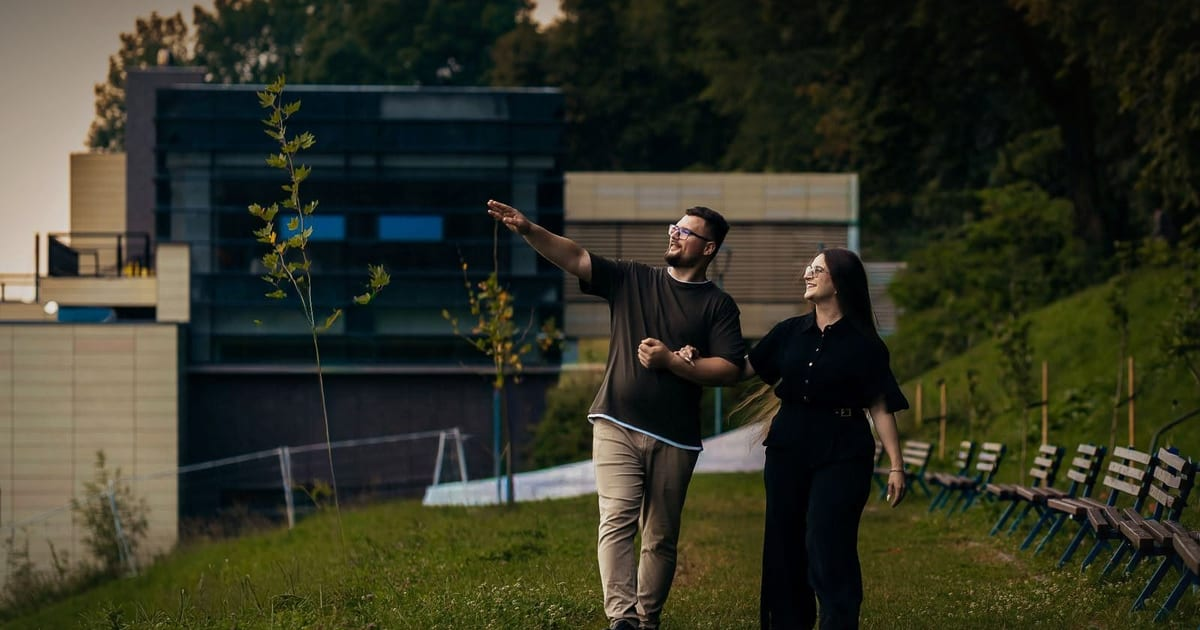
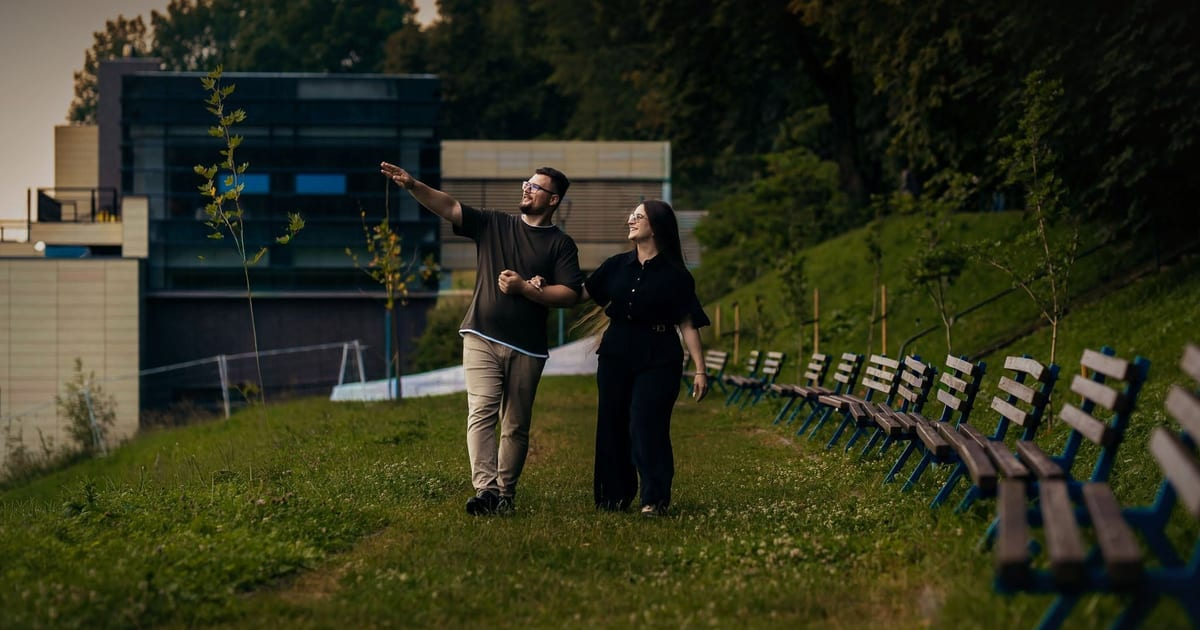
Galerie: elimină pozele duplicate și adaugă 6 poze noi de la mireasă

diff --git a/src/data/photos.ts b/src/data/photos.ts
@@ -17,10 +17,13 @@ import hero from '../assets/photos/hero.jpg';
 import intrebarea from '../assets/photos/intrebarea.jpg';
 import primulAcasa from '../assets/photos/primul-acasa.jpg';
 import galerieAlee from '../assets/photos/galerie-alee.jpg';
-import galerieImbratisare from '../assets/photos/galerie-imbratisare.jpg';
-import galerieArcadaUmbra from '../assets/photos/galerie-arcada-umbra.jpg';
-import galeriePortretSezut from '../assets/photos/galerie-portret-sezut.jpg';
 import galeriePrivire from '../assets/photos/galerie-privire.jpg';
+import galerieCivilaIedera from '../assets/photos/galerie-civila-iedera.jpg';
+import galerieGradinaAlbastru from '../assets/photos/galerie-gradina-albastru.jpg';
+import galerieMunteSelfie from '../assets/photos/galerie-munte-selfie.jpg';
+import galerieBradCraciun from '../assets/photos/galerie-brad-craciun.jpg';
+import galerieEvenimentSelfie from '../assets/photos/galerie-eveniment-selfie.jpg';
+import galerieSelfieAlb from '../assets/photos/galerie-selfie-alb.jpg';
 import heroMobile from '../assets/photos/crops/hero-mobile.jpg';
 import rsvpMobile from '../assets/photos/crops/rsvp-mobile.jpg';
 import finalMobile from '../assets/photos/crops/final-mobile.jpg';
@@ -33,10 +36,13 @@ export type PhotoKey = 'civila' | 'arcada' | 'inel' | 'intim' | 'apus' | 'portre
   | 'primulAcasa'
   | 'intrebarea'
   | 'galerieAlee'
-  | 'galerieImbratisare'
-  | 'galerieArcadaUmbra'
-  | 'galeriePortretSezut'
-  | 'galeriePrivire';
+  | 'galeriePrivire'
+  | 'galerieCivilaIedera'
+  | 'galerieGradinaAlbastru'
+  | 'galerieMunteSelfie'
+  | 'galerieBradCraciun'
+  | 'galerieEvenimentSelfie'
+  | 'galerieSelfieAlb';
 
 export interface Photo {
   src: ImageMetadata;
@@ -56,10 +62,13 @@ export const photos: Record<PhotoKey, Photo> = {
   intrebarea: { src: intrebarea, alt: 'Două mâini împreunate, cu inelul de logodnă, în fața unui brad de Crăciun plin de luminițe colorate', lqip: lqip.intrebarea },
   primulAcasa: { src: primulAcasa, alt: 'Dragoș și Diana, zâmbind într-un selfie, într-un parc cu iarbă verde și flori albe', lqip: lqip.primulAcasa },
   galerieAlee: { src: galerieAlee, alt: 'Diana și Dragoș plimbându-se de mână pe o alee umbrită, privindu-se zâmbind, în lumina aurie a serii', lqip: lqip.galerieAlee },
-  galerieImbratisare: { src: galerieImbratisare, alt: 'Îmbrățișare văzută din spate; mâinile Dianei, cu inelul de logodnă, în jurul gâtului lui Dragoș', lqip: lqip.galerieImbratisare },
-  galerieArcadaUmbra: { src: galerieArcadaUmbra, alt: 'Diana și Dragoș sărutându-se, sprijiniți de o arcadă de piatră, într-o pădure învăluită în umbră', lqip: lqip.galerieArcadaUmbra },
-  galeriePortretSezut: { src: galeriePortretSezut, alt: 'Portret cu Diana zâmbind, sprijinită de umărul lui Dragoș, pe fundal de verdeață', lqip: lqip.galeriePortretSezut },
   galeriePrivire: { src: galeriePrivire, alt: 'Prim-plan cu Diana privindu-l pe Dragoș, într-o lumină caldă și intimă', lqip: lqip.galeriePrivire },
+  galerieCivilaIedera: { src: galerieCivilaIedera, alt: 'Dragoș și Diana, în ținute de cununie civilă, îmbrățișați în fața unei tufe de iederă, zâmbind spre cameră', lqip: lqip.galerieCivilaIedera },
+  galerieGradinaAlbastru: { src: galerieGradinaAlbastru, alt: 'Dragoș și Diana, îmbrățișați într-o grădină, ea în rochie albastră cu părul lung, el în cămașă în carouri', lqip: lqip.galerieGradinaAlbastru },
+  galerieMunteSelfie: { src: galerieMunteSelfie, alt: 'Selfie cu Dragoș și Diana pe o terasă, cu munții în fundal într-o zi senină', lqip: lqip.galerieMunteSelfie },
+  galerieBradCraciun: { src: galerieBradCraciun, alt: 'Dragoș și Diana, îmbrățișați seara în fața unui brad de Crăciun luminat', lqip: lqip.galerieBradCraciun },
+  galerieEvenimentSelfie: { src: galerieEvenimentSelfie, alt: 'Selfie cu Dragoș, în costum, și Diana, în rochie verde, la un eveniment, sub lumini colorate', lqip: lqip.galerieEvenimentSelfie },
+  galerieSelfieAlb: { src: galerieSelfieAlb, alt: 'Selfie cu Diana și Dragoș, îmbrăcați în alb, cu capetele apropiate, zâmbind', lqip: lqip.galerieSelfieAlb },
 };
 
 /** Poza care apare când se deschide plicul (hero). */
@@ -78,5 +87,6 @@ export const finalPhoto = {
 export const crops = { heroMobile, rsvpMobile, finalMobile };
 
 /** Ordinea din galerie. */
-export const galleryOrder: PhotoKey[] = ['portret', 'civila', 'apus', 'arcada', 'intim', 'inel',
-  'galerieAlee', 'galerieImbratisare', 'galerieArcadaUmbra', 'galeriePortretSezut', 'galeriePrivire'];
+export const galleryOrder: PhotoKey[] = ['portret', 'galerieCivilaIedera', 'apus', 'galerieMunteSelfie', 'arcada',
+  'galerieGradinaAlbastru', 'galerieAlee', 'galerieBradCraciun', 'inel', 'civila', 'galerieEvenimentSelfie',
+  'galeriePrivire', 'galerieSelfieAlb'];
